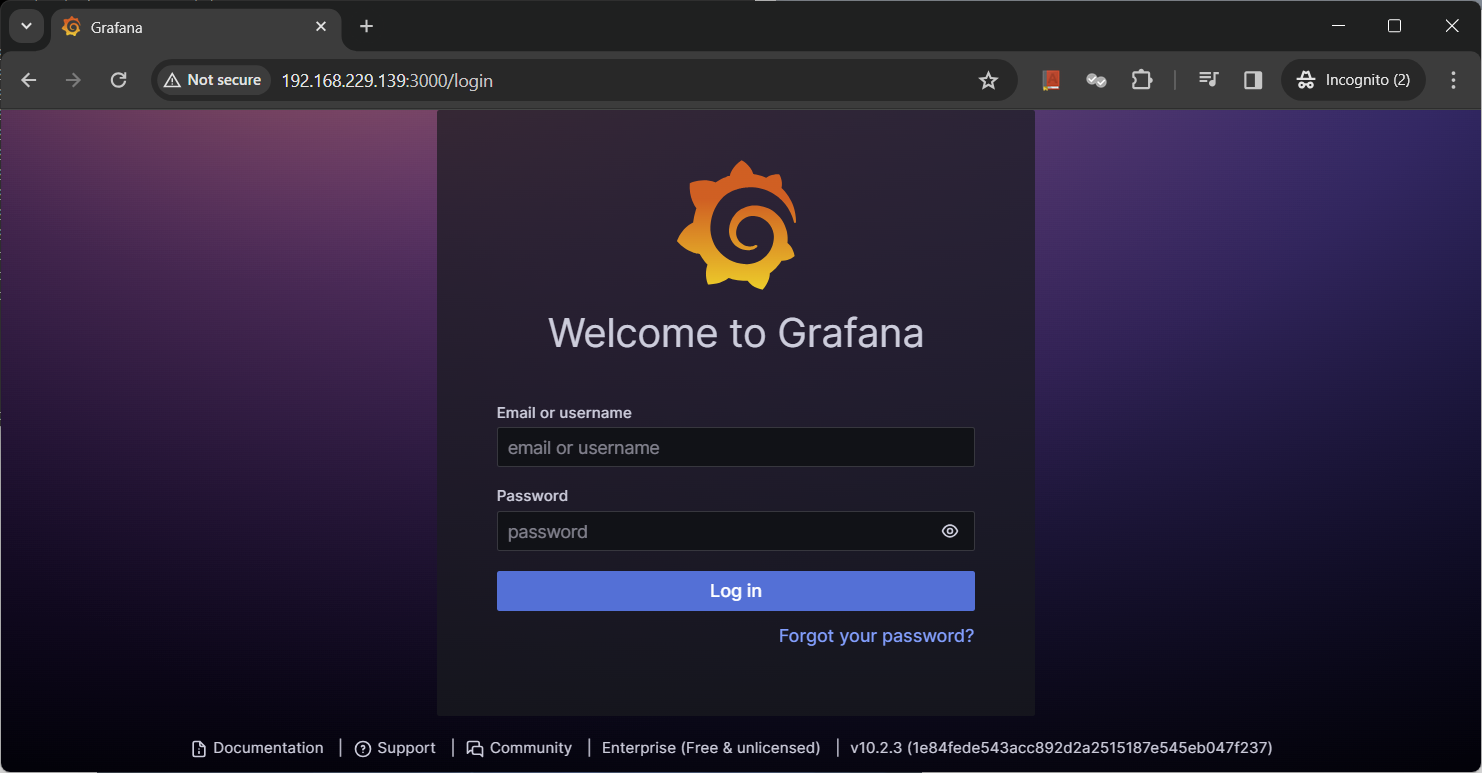
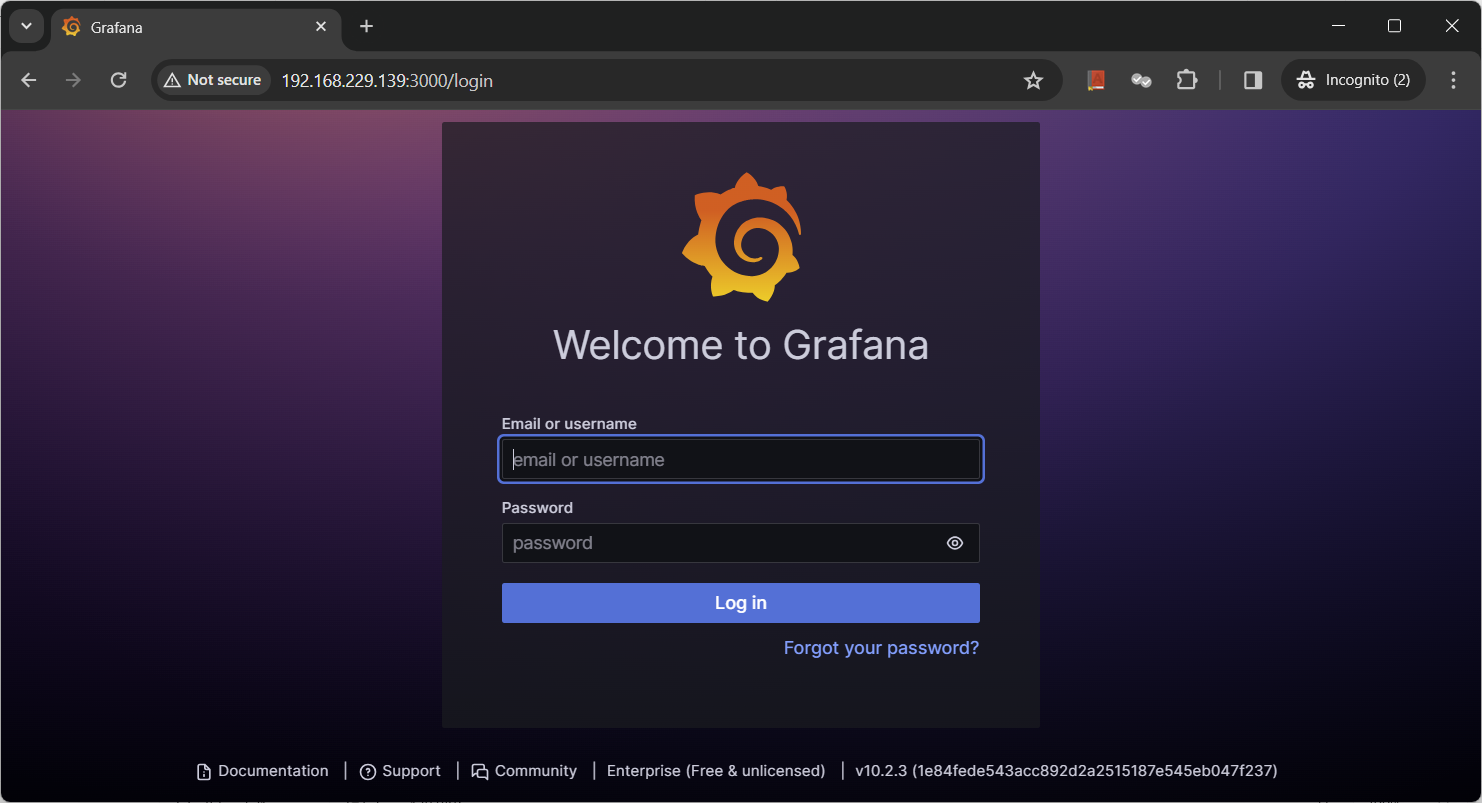
Final Upload

diff --git a/grafana-prometheus-mysql/README.md b/grafana-prometheus-mysql/README.md
@@ -11,6 +11,7 @@ Steps to Enable MySQL Database Monitoring Using Prometheus and Grafana
 * Install and configure Prometheus
 * Install a database exporter
 
+<hr >
 ### Install and configure Grafana
 
 The Grafana binaries are publicly available to download from [Grafana Binaries](https://grafana.com/grafana/download). We are using the latest binaries and directly install it. You can download locally first using wget and later install too.
@@ -94,11 +95,11 @@ Dec 23 17:45:17 watchsrv.localdomain grafana[3489]: logger=plugins.update.check>
 [root@watchsrv ~]#
 ```
 
-Now lets test if its running. Grafana uses 3000 port so obtaining the server ip we will hith the url as below:
+Now lets test if its running. Grafana uses 3000 port so obtaining the server ip we will hith the url as below. And the Default login and password of Grafana are: <strong>admin/admin<strong>, default location Grafana will log into: /var/log/Grafana.
 <img src="imgs/grafana-initial.png" alt="Grafana Initial User Interface"> 
 
-
-yum install -y https://dl.grafana.com/enterprise/release/grafana-enterprise-10.2.3-1.x86_64.rpm
+When you provide default password it may request you to change the password, which you can or skip it but i have changed it in my case and the initial dashboard look like below:
+<img src="imgs/grafana-login.png" alt="Grafana Initial Dashboard"> 
 
 ### Install and configure Prometheus
 
